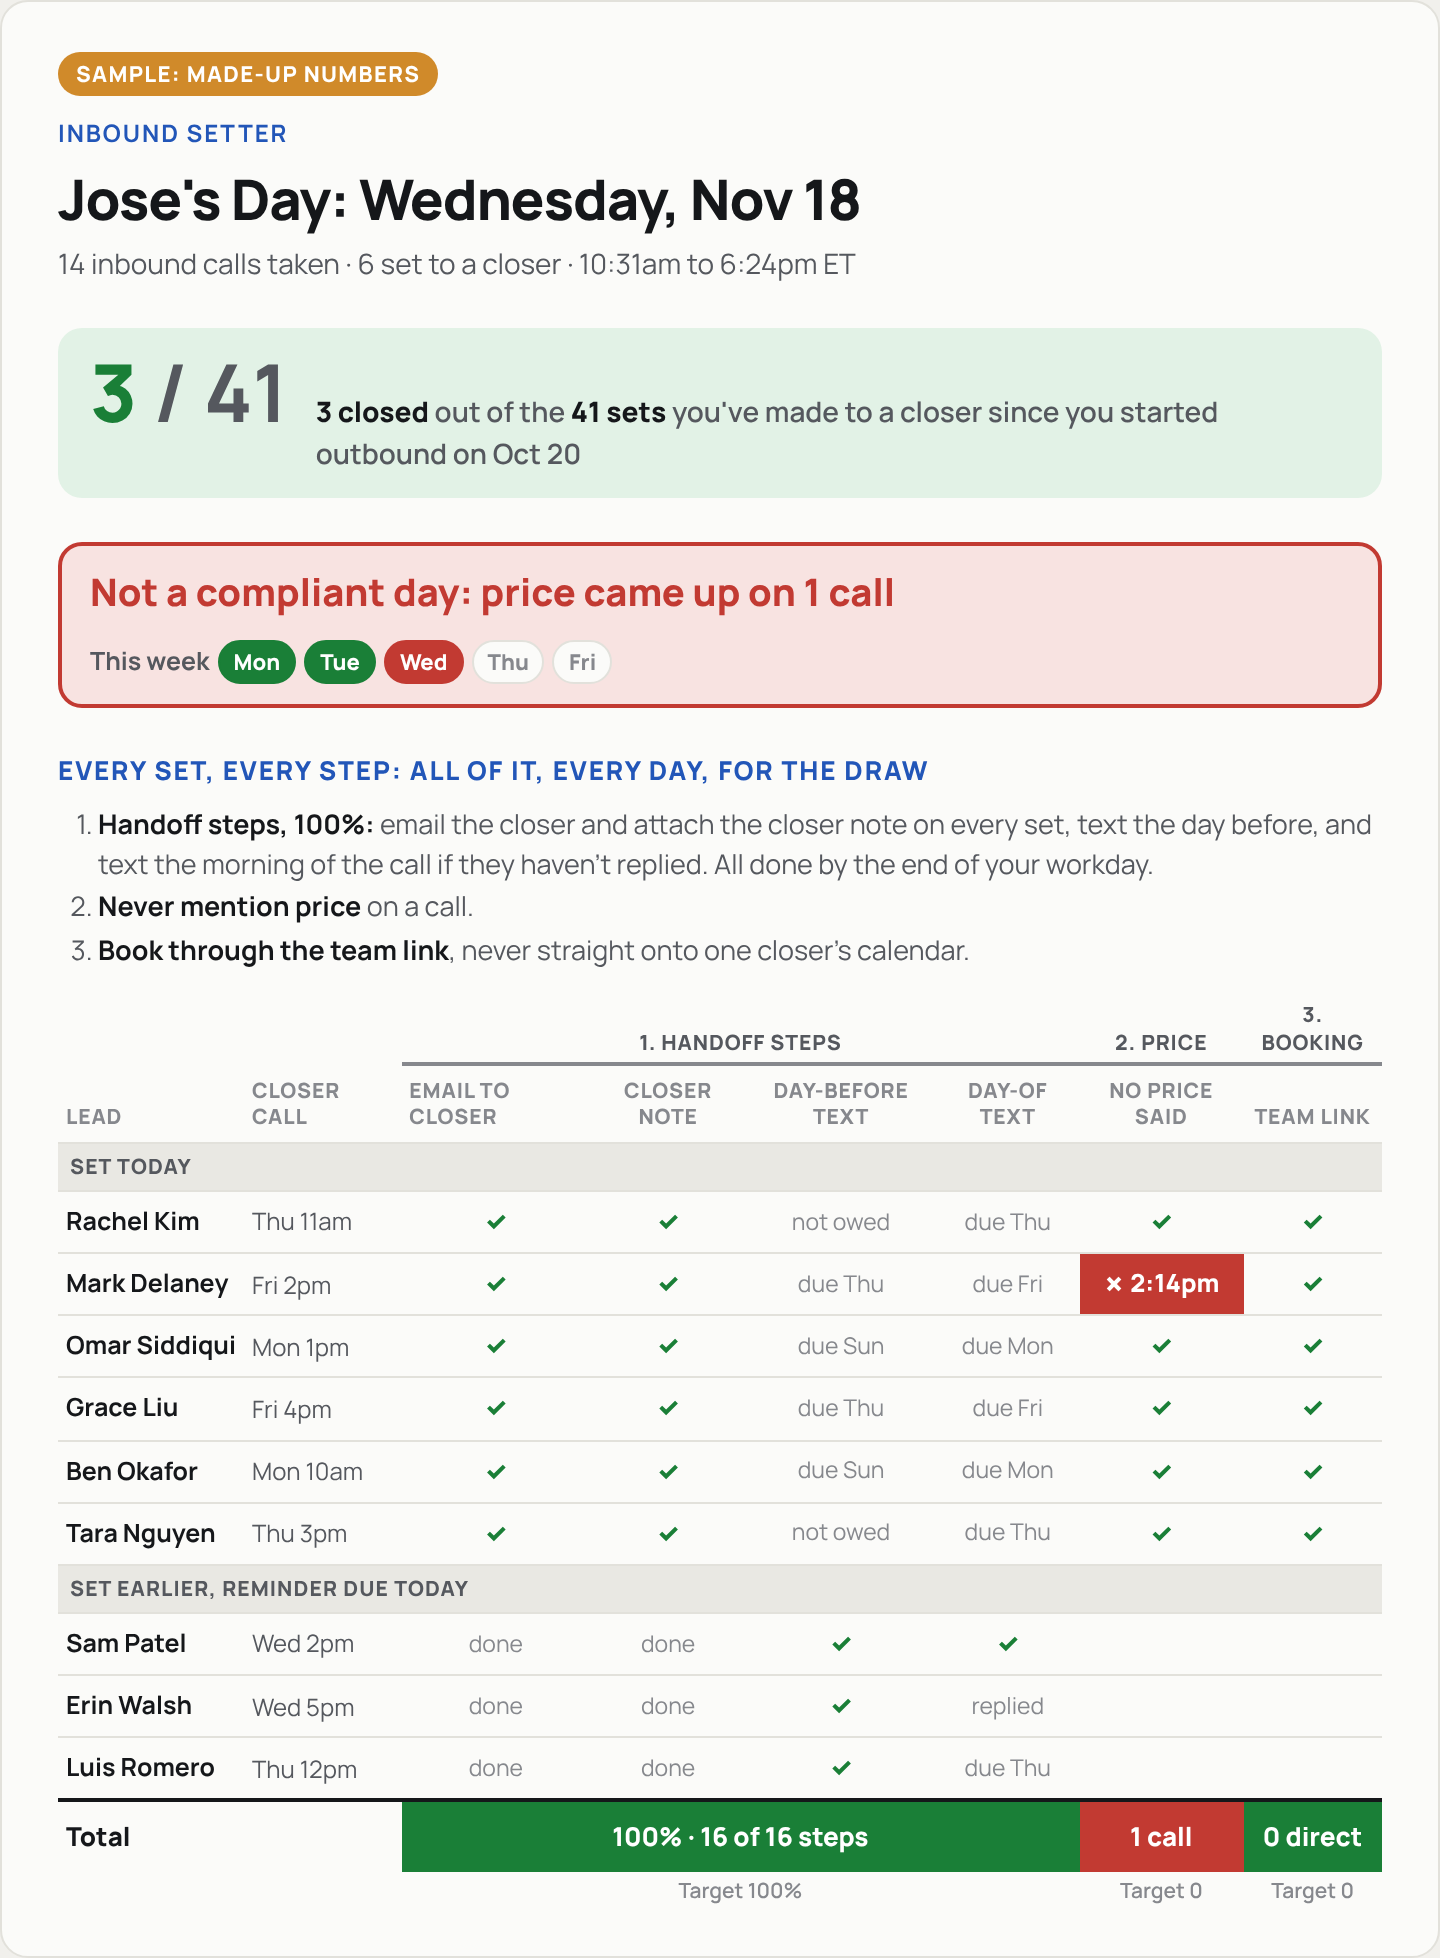
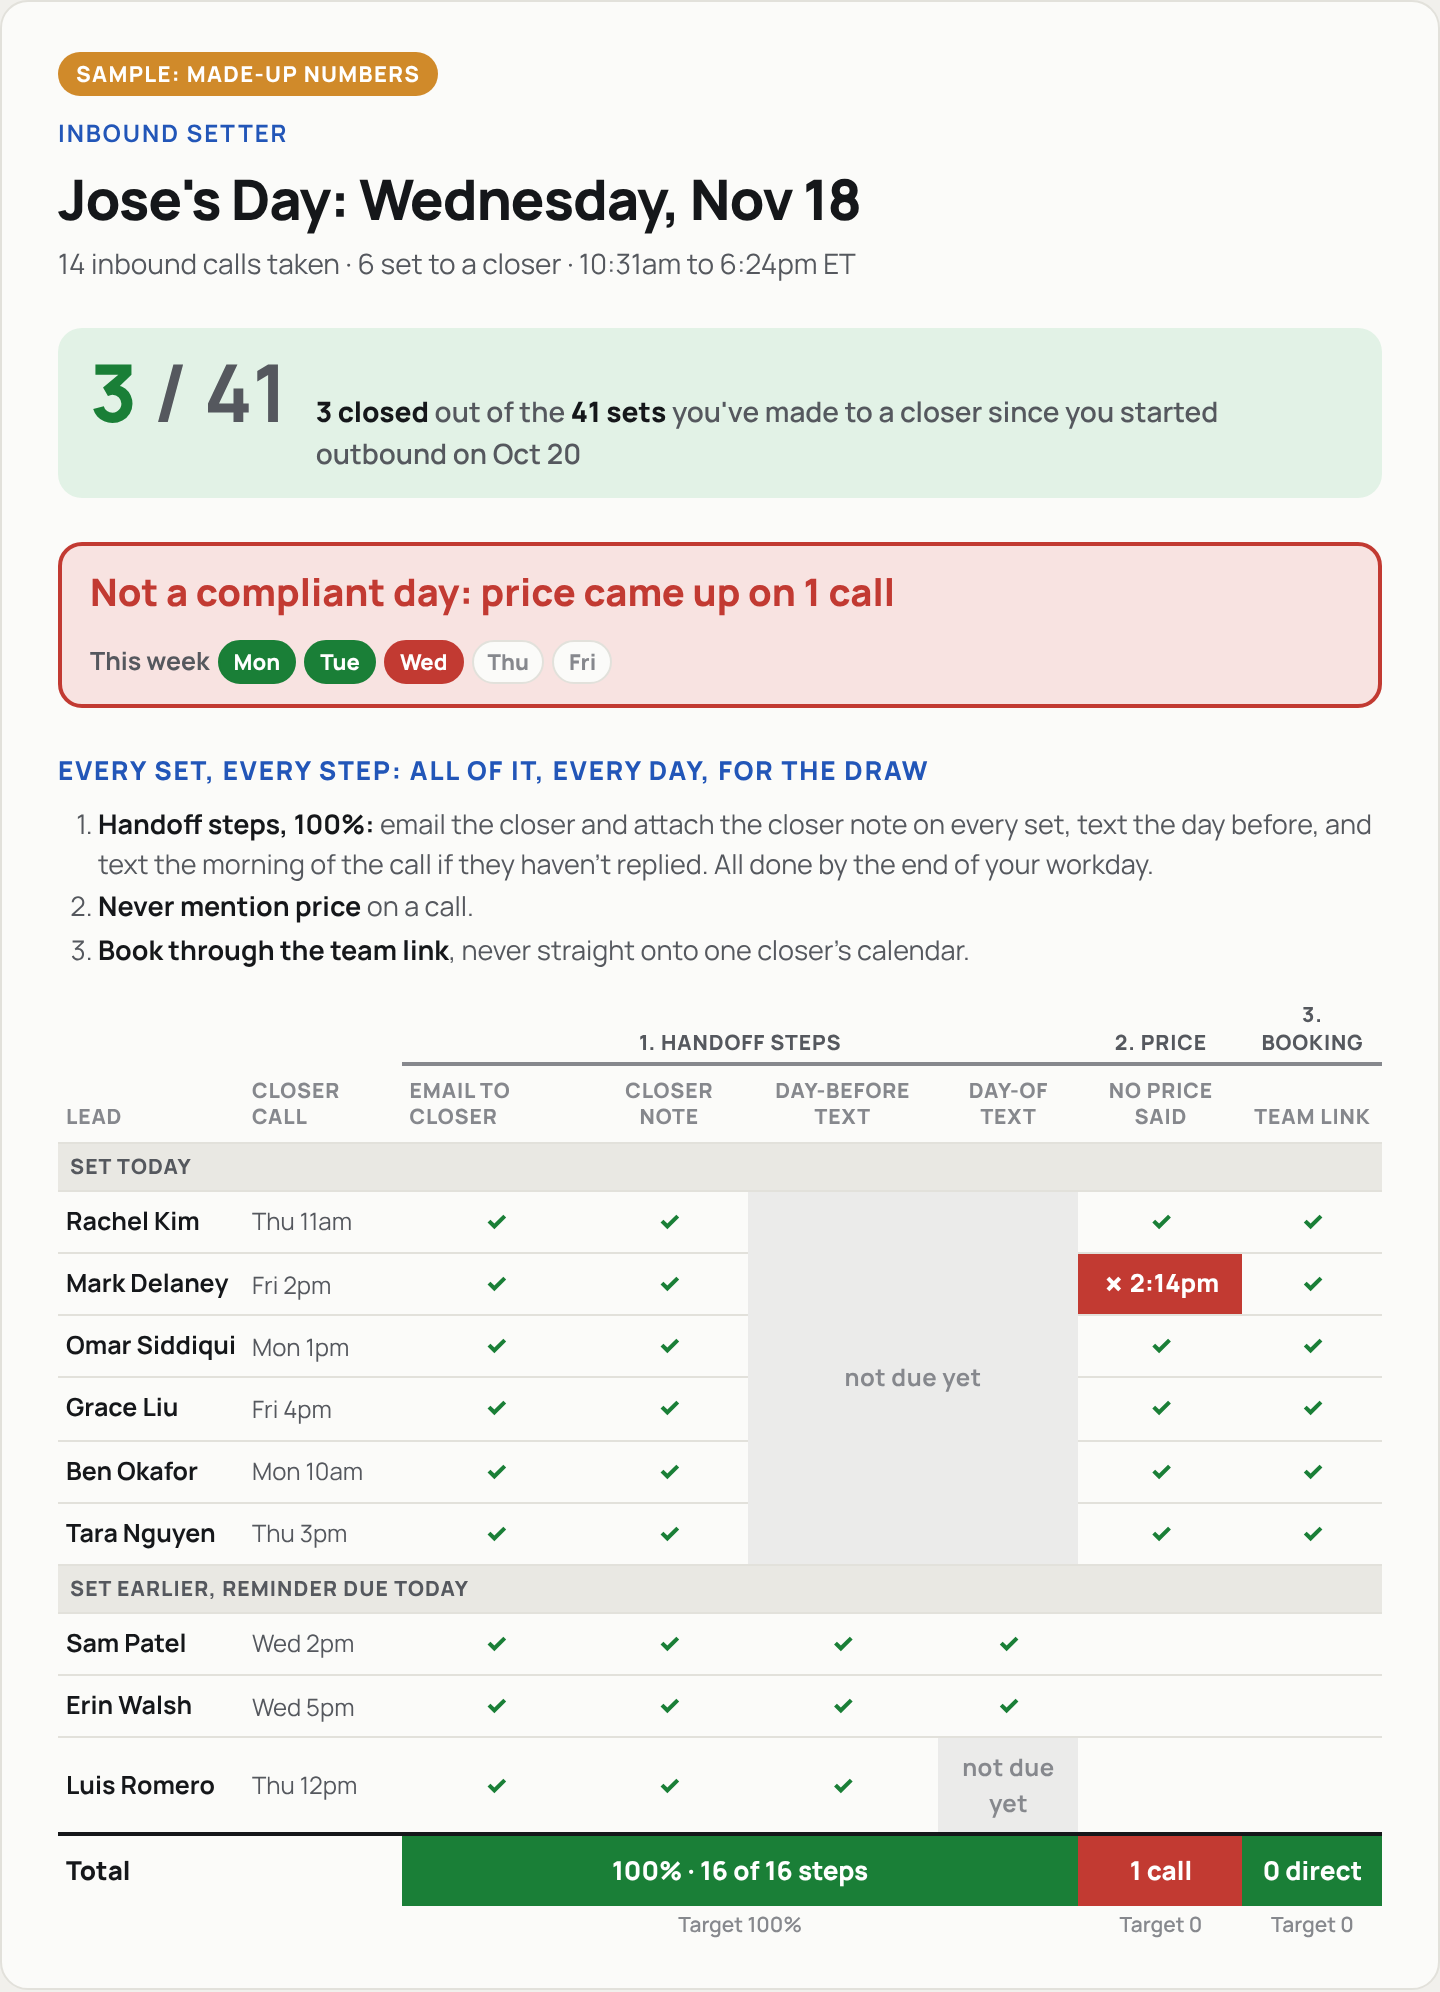
Inbound mockup v4: checks for every done step, one gray 'not due yet' block
Claude-Session: https://claude.ai/code/session_01D9LMPTL1NiKJvZGnvcS1D1

diff --git a/mockups/inbound-scorecards/cards.html b/mockups/inbound-scorecards/cards.html
@@ -2,6 +2,7 @@
      Static made-up numbers, not from Close or the bots. Styles come from kit/template.html and kit/cover.html (see render.py).
      v2 (Sheila, Nov 20): inbound cards drop the KPI tiles; one table of every lead with a step owed that day,
      and a totals row at the bottom that carries each KPI's result.
+     v4 (Sheila, Nov 20): every done step is a check; reminders not yet due are one gray "not due yet" block.
      v3 (Sheila, Nov 20): Jose's and Jordan's inbound cards get one tile under the title: closes / sets since they started outbound. -->
 <style>
 .sample{display:inline-block;font-size:11px;font-weight:800;letter-spacing:.06em;text-transform:uppercase;color:#fff;background:var(--older);border-radius:999px;padding:3px 9px}
@@ -17,6 +18,7 @@
 .tbl td.r{color:var(--ink2);font-size:12px;text-align:left;white-space:nowrap}
 .tbl td.ok{color:var(--good);font-weight:800} .tbl td.no{color:#fff;background:var(--bad);font-weight:800}
 .tbl td.na{color:var(--ink3);font-size:11.5px}
+.tbl td.nd{background:color-mix(in srgb,var(--ink3) 14%,var(--card));color:var(--ink3);font-size:12px;font-weight:700;letter-spacing:.02em}
 .tbl tr.grp td{background:var(--track);font-size:10.5px;font-weight:800;letter-spacing:.05em;text-transform:uppercase;color:var(--ink2);text-align:left;padding:4px 6px}
 .tbl tr.tot td{border-bottom:0;border-top:2px solid var(--ink);padding:8px 4px;font-size:13px;font-weight:800}
 .tbl tr.tot td.ok{background:var(--good);color:#fff} .tbl tr.tot td.no{background:var(--bad);color:#fff}
@@ -67,16 +69,16 @@
       <tr><th rowspan="2" class="l">Lead</th><th rowspan="2" class="l">Closer call</th><th colspan="4" class="kg">1. Handoff steps</th><th class="kg">2. Price</th><th class="kg">3. Booking</th></tr>
       <tr><th>Email to closer</th><th>Closer note</th><th>Day-before text</th><th>Day-of text</th><th>No price said</th><th>Team link</th></tr>
       <tr class="grp"><td colspan="8">Set today</td></tr>
-      <tr><td>Rachel Kim</td><td class="r">Thu 11am</td><td class="ok">✓</td><td class="ok">✓</td><td class="na">not owed</td><td class="na">due Thu</td><td class="ok">✓</td><td class="ok">✓</td></tr>
-      <tr><td>Mark Delaney</td><td class="r">Fri 2pm</td><td class="ok">✓</td><td class="ok">✓</td><td class="na">due Thu</td><td class="na">due Fri</td><td class="no">✗ 2:14pm</td><td class="ok">✓</td></tr>
-      <tr><td>Omar Siddiqui</td><td class="r">Mon 1pm</td><td class="ok">✓</td><td class="ok">✓</td><td class="na">due Sun</td><td class="na">due Mon</td><td class="ok">✓</td><td class="ok">✓</td></tr>
-      <tr><td>Grace Liu</td><td class="r">Fri 4pm</td><td class="ok">✓</td><td class="ok">✓</td><td class="na">due Thu</td><td class="na">due Fri</td><td class="ok">✓</td><td class="ok">✓</td></tr>
-      <tr><td>Ben Okafor</td><td class="r">Mon 10am</td><td class="ok">✓</td><td class="ok">✓</td><td class="na">due Sun</td><td class="na">due Mon</td><td class="ok">✓</td><td class="ok">✓</td></tr>
-      <tr><td>Tara Nguyen</td><td class="r">Thu 3pm</td><td class="ok">✓</td><td class="ok">✓</td><td class="na">not owed</td><td class="na">due Thu</td><td class="ok">✓</td><td class="ok">✓</td></tr>
+      <tr><td>Rachel Kim</td><td class="r">Thu 11am</td><td class="ok">✓</td><td class="ok">✓</td><td class="nd" colspan="2" rowspan="6">not due yet</td><td class="ok">✓</td><td class="ok">✓</td></tr>
+      <tr><td>Mark Delaney</td><td class="r">Fri 2pm</td><td class="ok">✓</td><td class="ok">✓</td><td class="no">✗ 2:14pm</td><td class="ok">✓</td></tr>
+      <tr><td>Omar Siddiqui</td><td class="r">Mon 1pm</td><td class="ok">✓</td><td class="ok">✓</td><td class="ok">✓</td><td class="ok">✓</td></tr>
+      <tr><td>Grace Liu</td><td class="r">Fri 4pm</td><td class="ok">✓</td><td class="ok">✓</td><td class="ok">✓</td><td class="ok">✓</td></tr>
+      <tr><td>Ben Okafor</td><td class="r">Mon 10am</td><td class="ok">✓</td><td class="ok">✓</td><td class="ok">✓</td><td class="ok">✓</td></tr>
+      <tr><td>Tara Nguyen</td><td class="r">Thu 3pm</td><td class="ok">✓</td><td class="ok">✓</td><td class="ok">✓</td><td class="ok">✓</td></tr>
       <tr class="grp"><td colspan="8">Set earlier, reminder due today</td></tr>
-      <tr><td>Sam Patel</td><td class="r">Wed 2pm</td><td class="na">done</td><td class="na">done</td><td class="ok">✓</td><td class="ok">✓</td><td class="na"></td><td class="na"></td></tr>
-      <tr><td>Erin Walsh</td><td class="r">Wed 5pm</td><td class="na">done</td><td class="na">done</td><td class="ok">✓</td><td class="na">replied</td><td class="na"></td><td class="na"></td></tr>
-      <tr><td>Luis Romero</td><td class="r">Thu 12pm</td><td class="na">done</td><td class="na">done</td><td class="ok">✓</td><td class="na">due Thu</td><td class="na"></td><td class="na"></td></tr>
+      <tr><td>Sam Patel</td><td class="r">Wed 2pm</td><td class="ok">✓</td><td class="ok">✓</td><td class="ok">✓</td><td class="ok">✓</td><td class="na"></td><td class="na"></td></tr>
+      <tr><td>Erin Walsh</td><td class="r">Wed 5pm</td><td class="ok">✓</td><td class="ok">✓</td><td class="ok">✓</td><td class="ok">✓</td><td class="na"></td><td class="na"></td></tr>
+      <tr><td>Luis Romero</td><td class="r">Thu 12pm</td><td class="ok">✓</td><td class="ok">✓</td><td class="ok">✓</td><td class="nd">not due yet</td><td class="na"></td><td class="na"></td></tr>
       <tr class="tot"><td class="lab" colspan="2">Total</td><td colspan="4" class="ok">100% · 16 of 16 steps</td><td class="no">1 call</td><td class="ok">0 direct</td></tr>
       <tr class="tgt"><td colspan="2"></td><td colspan="4">Target 100%</td><td>Target 0</td><td>Target 0</td></tr>
     </table>
@@ -105,14 +107,14 @@
     <table class="tbl">
       <tr><th class="l">Lead</th><th class="l">Closer call</th><th>Email to closer</th><th>Closer note</th><th>Day-before text</th><th>Day-of text</th></tr>
       <tr class="grp"><td colspan="6">Set today</td></tr>
-      <tr><td>Lena Ortiz</td><td class="r">Fri 10am</td><td class="ok">✓</td><td class="no">✗</td><td class="na">due Thu</td><td class="na">due Fri</td></tr>
-      <tr><td>Nina Shah</td><td class="r">Thu 4pm</td><td class="ok">✓</td><td class="ok">✓</td><td class="na">not owed</td><td class="na">due Thu</td></tr>
-      <tr><td>Chris Moore</td><td class="r">Mon 11am</td><td class="ok">✓</td><td class="ok">✓</td><td class="na">due Sun</td><td class="na">due Mon</td></tr>
-      <tr><td>Ava Brooks</td><td class="r">Fri 1pm</td><td class="ok">✓</td><td class="ok">✓</td><td class="na">due Thu</td><td class="na">due Fri</td></tr>
+      <tr><td>Lena Ortiz</td><td class="r">Fri 10am</td><td class="ok">✓</td><td class="no">✗</td><td class="nd" colspan="2" rowspan="4">not due yet</td></tr>
+      <tr><td>Nina Shah</td><td class="r">Thu 4pm</td><td class="ok">✓</td><td class="ok">✓</td></tr>
+      <tr><td>Chris Moore</td><td class="r">Mon 11am</td><td class="ok">✓</td><td class="ok">✓</td></tr>
+      <tr><td>Ava Brooks</td><td class="r">Fri 1pm</td><td class="ok">✓</td><td class="ok">✓</td></tr>
       <tr class="grp"><td colspan="6">Set earlier, reminder due today</td></tr>
-      <tr><td>Paul Greer</td><td class="r">Wed 3pm</td><td class="na">done</td><td class="na">done</td><td class="ok">✓</td><td class="no">✗</td></tr>
-      <tr><td>Jake Rivera</td><td class="r">Wed 11am</td><td class="na">done</td><td class="na">done</td><td class="ok">✓</td><td class="ok">✓</td></tr>
-      <tr><td>Mia Chen</td><td class="r">Thu 2pm</td><td class="na">done</td><td class="na">done</td><td class="ok">✓</td><td class="na">due Thu</td></tr>
+      <tr><td>Paul Greer</td><td class="r">Wed 3pm</td><td class="ok">✓</td><td class="ok">✓</td><td class="ok">✓</td><td class="no">✗</td></tr>
+      <tr><td>Jake Rivera</td><td class="r">Wed 11am</td><td class="ok">✓</td><td class="ok">✓</td><td class="ok">✓</td><td class="ok">✓</td></tr>
+      <tr><td>Mia Chen</td><td class="r">Thu 2pm</td><td class="ok">✓</td><td class="ok">✓</td><td class="ok">✓</td><td class="nd">not due yet</td></tr>
       <tr class="tot"><td class="lab" colspan="2">Total</td><td colspan="4" class="no">85% · 11 of 13 steps</td></tr>
       <tr class="tgt"><td colspan="2"></td><td colspan="4">Target 100%</td></tr>
     </table>
